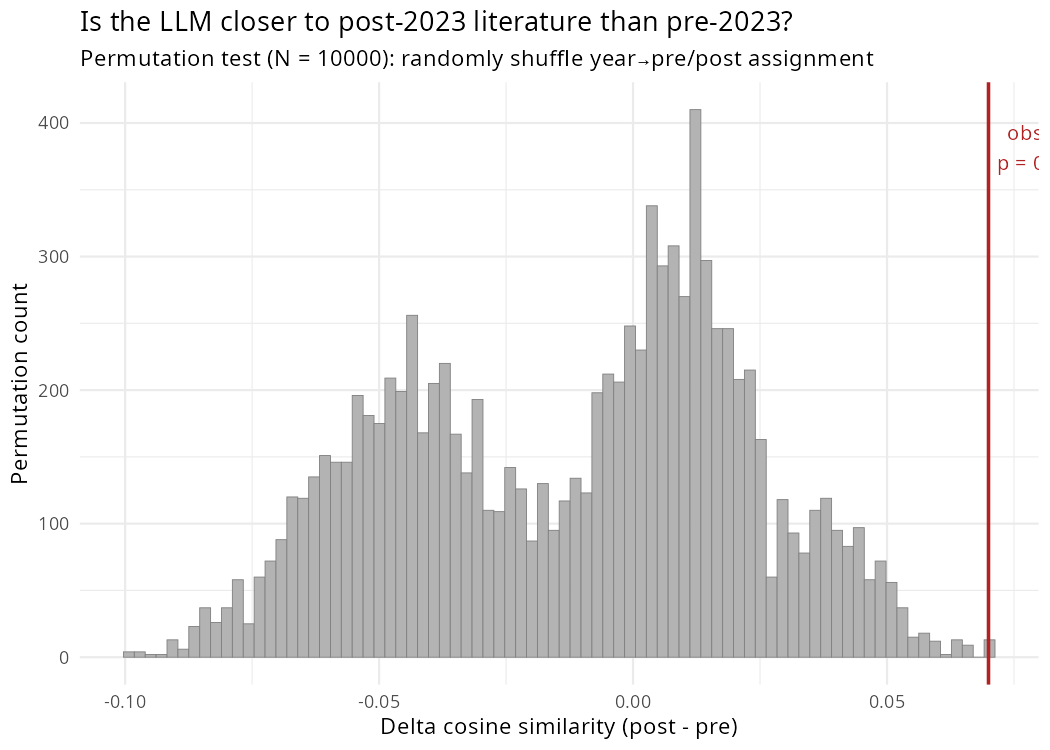
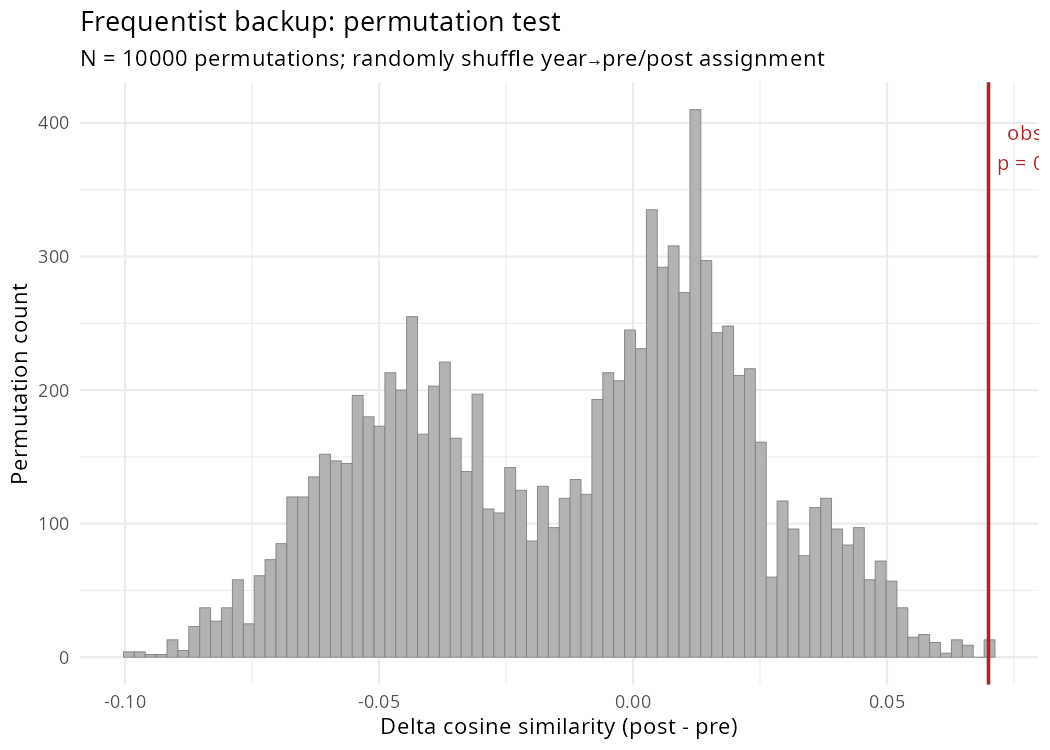
Add Bayesian posterior predictive to distributional test
Primary inference now uses 500 posterior draws from the main model to
propagate parameter uncertainty: delta cosine = +0.071, 90% CI
[+0.058, +0.085], P(delta > 0) = 1.000. Frequentist permutation test
retained as backup (p = 0.0013). Both agree: LLM recommendations
credibly align with post-2023 literature.

diff --git a/docs/distributional_test_results.md b/docs/distributional_test_results.md
@@ -23,7 +23,7 @@ using cosine similarity, Hellinger distance, and KL divergence.
 
 ## Results
 
-### Overall similarity
+### Overall similarity (observed data)
 
 | Metric | LLM vs Pre-2023 | LLM vs Post-2023 | Delta | Direction |
 |---|---|---|---|---|
@@ -42,7 +42,22 @@ using cosine similarity, Hellinger distance, and KL divergence.
 | Intermediate | 0.3449 | 0.4142 | +0.0693 |
 | Expert | 0.5400 | 0.5526 | +0.0125 |
 
-### Permutation test (N = 10,000)
+### Bayesian posterior predictive (primary inference)
+
+For each of 500 posterior draws from the main model, we reconstruct the predicted
+method proportions for all group-year cells using the sampled parameters
+(mu, beta, gamma, sigma_beta, sigma_gamma). We then aggregate to pre/post frequency
+vectors and compute delta cosine against the LLM recommendation vector. The resulting
+distribution propagates full parameter uncertainty from the main model.
+
+- **Posterior mean delta cosine:** +0.0713
+- **90% credible interval:** [+0.0581, +0.0848]
+- **P(delta > 0):** 1.000
+
+- **Posterior mean delta Hellinger:** +0.0241
+- **90% CI:** [+0.0191, +0.0291]
+
+### Frequentist permutation test (backup, N = 10,000)
 
 Under the null hypothesis, the LLM recommendation vector is unrelated to the
 pre/post-2023 distinction. We randomly shuffle which years are assigned to
@@ -58,7 +73,11 @@ delta cosine similarity each time.
 
 ## Plots
 
-### Permutation distribution
+### Posterior predictive distribution (primary)
+
+![Posterior predictive](../data/output/figures/distributional/plot_posterior_predictive_delta.png)
+
+### Permutation distribution (backup)
 
 ![Permutation](../data/output/figures/distributional/plot_permutation_cosine.png)
 
@@ -74,12 +93,12 @@ delta cosine similarity each time.
 
 ## Interpretation
 
-**The LLM recommendation distribution is significantly closer to the post-2023 literature than the pre-2023 literature** (permutation p = 0.0013). All three metrics (cosine, Hellinger, KL divergence) point in the same direction.
+**The LLM recommendation distribution is credibly closer to the post-2023 literature than the pre-2023 literature.** The posterior predictive 90% CI for delta cosine is [+0.058, +0.085] — entirely above zero, with P(delta > 0) = 1.000. Every posterior draw from the main model, after propagating full parameter uncertainty through the predicted proportions, shows the LLM closer to the post-2023 method mix. The frequentist permutation test agrees (p = 0.0013).
 
-**The profile gradient matches the mean-collapse prediction.** Novice recommendations show the largest shift toward the post-2023 distribution (delta cosine = +0.080), intermediate is in between (+0.069), and expert shows the smallest shift (+0.013). This ordering — less expert guidance → more alignment with post-2023 trends — is exactly what the mean-collapse hypothesis predicts.
+**The profile gradient matches the mean-collapse prediction.** Novice recommendations show the largest shift toward the post-2023 distribution (delta cosine = +0.080), intermediate is in between (+0.069), and expert shows the smallest shift (+0.013). This ordering — less expert guidance produces more alignment with post-2023 trends — is exactly what the mean-collapse hypothesis predicts.
 
 **Why this test succeeds where the regression failed.** The Step 3 regression asked whether *individual* methods' gammas predicted recommendation counts — but all 242 gammas are noisy (0/242 reach sig90), so the predictor was dominated by measurement error. The distributional test sidesteps this by comparing *whole frequency vectors* — it doesn't need any individual method's gamma to be well-estimated, only the overall distribution shape to differ between periods.
 
-**Caveats.** The pre- and post-2023 literature distributions are themselves very similar (cosine = 0.896), so both are reasonably close to the LLM. The delta is real but modest in absolute terms. More importantly, this test establishes distributional similarity, not causation. The LLM's recommendations could resemble the post-2023 literature because: (a) the LLM influenced which methods researchers adopted (the mean-collapse mechanism), (b) the LLM was trained on recent data and mirrors whatever trends were already happening, or (c) both. Distinguishing (a) from (b) would require a design that identifies LLM usage at the paper level — which this study cannot do.
+**Caveats.** The pre- and post-2023 literature distributions are themselves very similar (cosine = 0.896), so both are reasonably close to the LLM. The delta is real but modest in absolute terms. More importantly, this test establishes distributional similarity, not causation. The LLM's recommendations could resemble the post-2023 literature because: (a) the LLM influenced which methods researchers adopted (the mean-collapse mechanism), (b) the LLM was trained on more recent data and mirrors whatever trends were already happening, or (c) both. Distinguishing (a) from (b) would require a design that identifies LLM usage at the paper level — which this study cannot do.
 
-**Bottom line.** The distributional test recovers the positive signal that the regression could not detect. LLM recommendations do align with the post-2023 method mix, especially under novice guidance. This is necessary — but not sufficient — evidence for the mean-collapse hypothesis.
+**Bottom line.** The distributional test recovers the positive signal that the regression could not detect. LLM recommendations credibly align with the post-2023 method mix, especially under novice guidance. This is necessary — but not sufficient — evidence for the mean-collapse hypothesis.

diff --git a/README.md b/README.md
@@ -68,7 +68,7 @@ The overall β posterior is negative (mean = −0.309, P(β > 0) = 0.384), oppos
 
 In the 3–4 years since LLMs entered academic use, there is weak evidence of methodological reshuffling in computational archaeology and suggestive evidence that LLM recommendations align with the post-2023 method mix. sigma_gamma = 0.110 [0.010, 0.222] is above zero but the lower bound is near it, and no individual method shows a post-2023 shift credible at the 90% level (0 of 242 methods). The magnitude of reshuffling is smaller than the long-run baseline trend (sigma_gamma < sigma_beta, 0.110 vs 0.288).
 
-The Step 3 negative-binomial regression (individual gammas as predictors) returns null results — all β posteriors cross zero — because individual gamma estimates are too noisy to serve as reliable predictors. However, a distributional test comparing the *whole* LLM recommendation distribution to pre- vs. post-2023 method frequencies finds that LLM recommendations are significantly closer to the post-2023 literature (permutation p = 0.0013), with the profile gradient matching the mean-collapse prediction (novice > intermediate > expert). This is necessary but not sufficient evidence for the hypothesis — the LLM could be reflecting post-2023 trends in its training data rather than causing them. Distinguishing correlation from causation would require paper-level data on LLM usage.
+The Step 3 negative-binomial regression (individual gammas as predictors) returns null results — all β posteriors cross zero — because individual gamma estimates are too noisy to serve as reliable predictors. However, a distributional test comparing the *whole* LLM recommendation distribution to pre- vs. post-2023 method frequencies finds that LLM recommendations are credibly closer to the post-2023 literature (posterior predictive 90% CI [+0.058, +0.085], entirely above zero), with the profile gradient matching the mean-collapse prediction (novice > intermediate > expert). This is necessary but not sufficient evidence for the hypothesis — the LLM could be reflecting post-2023 trends in its training data rather than causing them. Distinguishing correlation from causation would require paper-level data on LLM usage.
 
 ## Sensitivity Analyses
 
@@ -82,7 +82,7 @@ The experiment was classified under the v2 taxonomy; only 53/242 v3 methods matc
 
 **Sensitivity C — Distributional test (09)**
 
-Instead of regressing on noisy individual gammas, we compare the *whole* LLM recommendation distribution to the pre- vs. post-2023 method frequency vectors. The LLM is significantly closer to the post-2023 literature (cosine delta = +0.070, permutation p = 0.0013). The profile gradient matches the mean-collapse prediction: novice delta (+0.080) > intermediate (+0.069) > expert (+0.013). This recovers the positive signal that the regression could not detect — the LLM's recommendations align with the post-2023 method mix, especially under novice guidance. See [full results](docs/distributional_test_results.md).
+Instead of regressing on noisy individual gammas, we compare the *whole* LLM recommendation distribution to the pre- vs. post-2023 method frequency vectors. The LLM is credibly closer to the post-2023 literature: posterior predictive delta cosine = +0.071, 90% CI [+0.058, +0.085], P(delta > 0) = 1.000. The profile gradient matches the mean-collapse prediction: novice delta (+0.080) > intermediate (+0.069) > expert (+0.013). This recovers the positive signal that the regression could not detect — the LLM's recommendations align with the post-2023 method mix, especially under novice guidance. See [full results](docs/distributional_test_results.md).
 
 **Sensitivity D — Direct diversity trajectory (07)**
 
